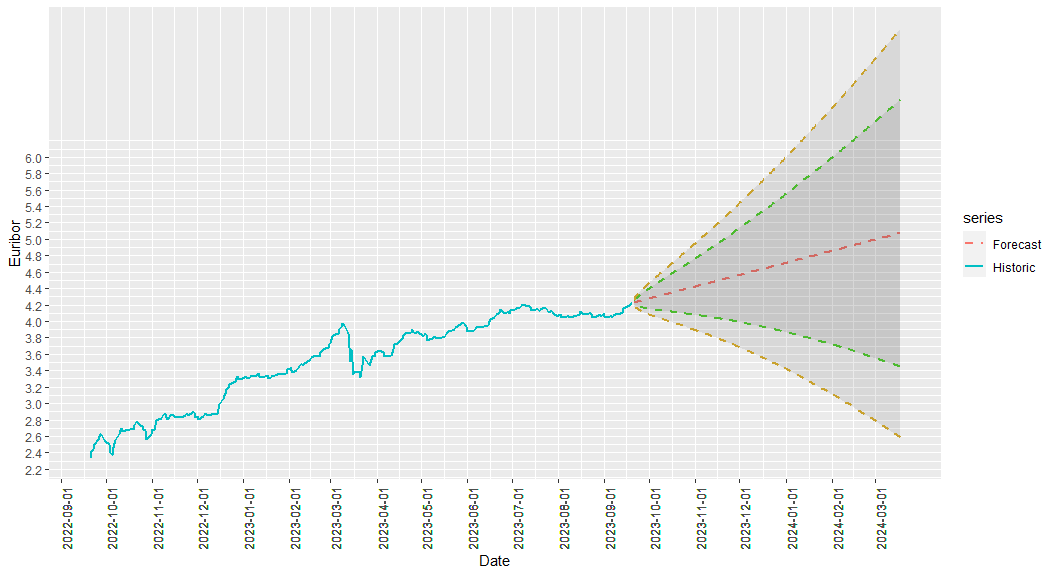
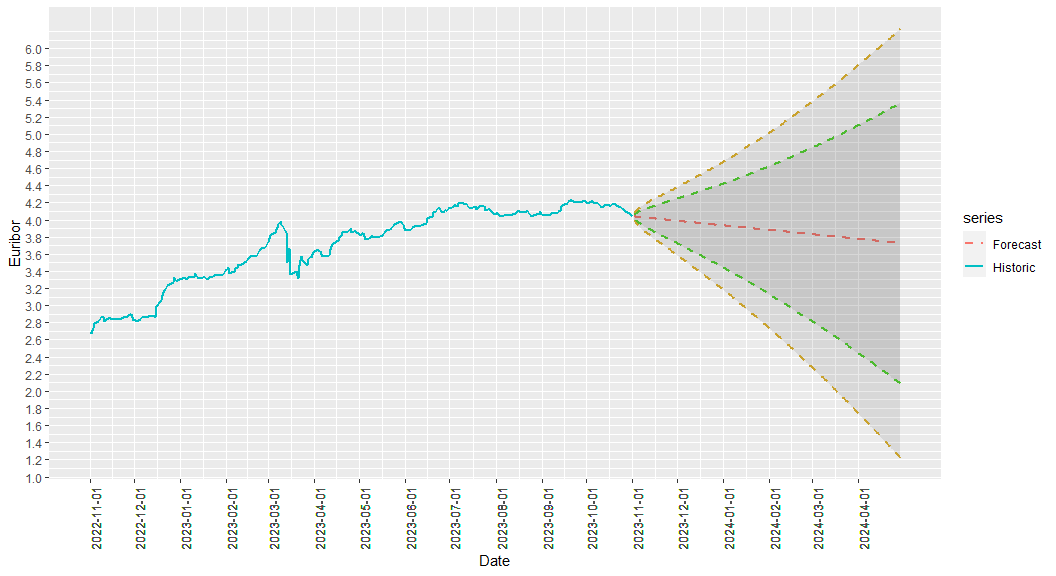
forecast update

diff --git a/Euribor_Markown.md b/Euribor_Markown.md
@@ -19,33 +19,33 @@ days.
     ## 6 1999-01-08 3.139
 
     ##            date  rate
-    ## 6344 2023-09-13 4.112
-    ## 6345 2023-09-14 4.159
-    ## 6346 2023-09-15 4.169
-    ## 6347 2023-09-18 4.191
-    ## 6348 2023-09-19 4.216
-    ## 6349 2023-09-20 4.222
+    ## 6374 2023-10-25 4.118
+    ## 6375 2023-10-26 4.128
+    ## 6376 2023-10-27 4.104
+    ## 6377 2023-10-30 4.078
+    ## 6378 2023-10-31 4.052
+    ## 6379 2023-11-01 4.044
 
 ## Preview Forecast Rates Dataset
 
     ##         date forecast    lo_80    hi_80    lo_95    hi_95
-    ## 1 2023-09-21 4.228672 4.200063 4.257281 4.184918 4.272426
-    ## 2 2023-09-22 4.234248 4.191558 4.276938 4.168959 4.299537
-    ## 3 2023-09-23 4.239396 4.184492 4.294300 4.155427 4.323365
-    ## 4 2023-09-24 4.244325 4.178509 4.310142 4.143668 4.344983
-    ## 5 2023-09-25 4.249148 4.173342 4.324954 4.133213 4.365084
-    ## 6 2023-09-26 4.253919 4.168804 4.339034 4.123747 4.384091
+    ## 1 2023-11-02 4.039480 4.010889 4.068070 3.995755 4.083205
+    ## 2 2023-11-03 4.036365 3.993709 4.079021 3.971128 4.101601
+    ## 3 2023-11-04 4.033960 3.979091 4.088828 3.950046 4.117874
+    ## 4 2023-11-05 4.031900 3.966120 4.097680 3.931298 4.132502
+    ## 5 2023-11-06 4.030009 3.954239 4.105779 3.914128 4.145889
+    ## 6 2023-11-07 4.028200 3.943120 4.113281 3.898080 4.158321
 
     ##           date forecast    lo_80    hi_80    lo_95    hi_95
-    ## 175 2024-03-13 5.051651 3.479726 6.623576 2.647599 7.455703
-    ## 176 2024-03-14 5.056371 3.473351 6.639391 2.635350 7.477392
-    ## 177 2024-03-15 5.061091 3.466950 6.655232 2.623063 7.499119
-    ## 178 2024-03-16 5.065811 3.460525 6.671098 2.610737 7.520885
-    ## 179 2024-03-17 5.070531 3.454074 6.686988 2.598373 7.542689
-    ## 180 2024-03-18 5.075251 3.447598 6.702904 2.585970 7.564532
+    ## 175 2024-04-24 3.735828 2.154704 5.316951 1.317708 6.153948
+    ## 176 2024-04-25 3.734098 2.141796 5.326400 1.298882 6.169314
+    ## 177 2024-04-26 3.732369 2.128863 5.335875 1.280018 6.184719
+    ## 178 2024-04-27 3.730639 2.115903 5.345375 1.261114 6.200164
+    ## 179 2024-04-28 3.728909 2.102919 5.354900 1.242171 6.215647
+    ## 180 2024-04-29 3.727180 2.089909 5.364451 1.223190 6.231170
 
-Last historic date is 2023-09-20, forecast range went from 2023-09-21 to
-2024-03-18.
+Last historic date is 2023-11-01, forecast range went from 2023-11-02 to
+2024-04-29.
 
 ## 1 Year Historical + Forecast with 80% & 95% confidence intervals
 
